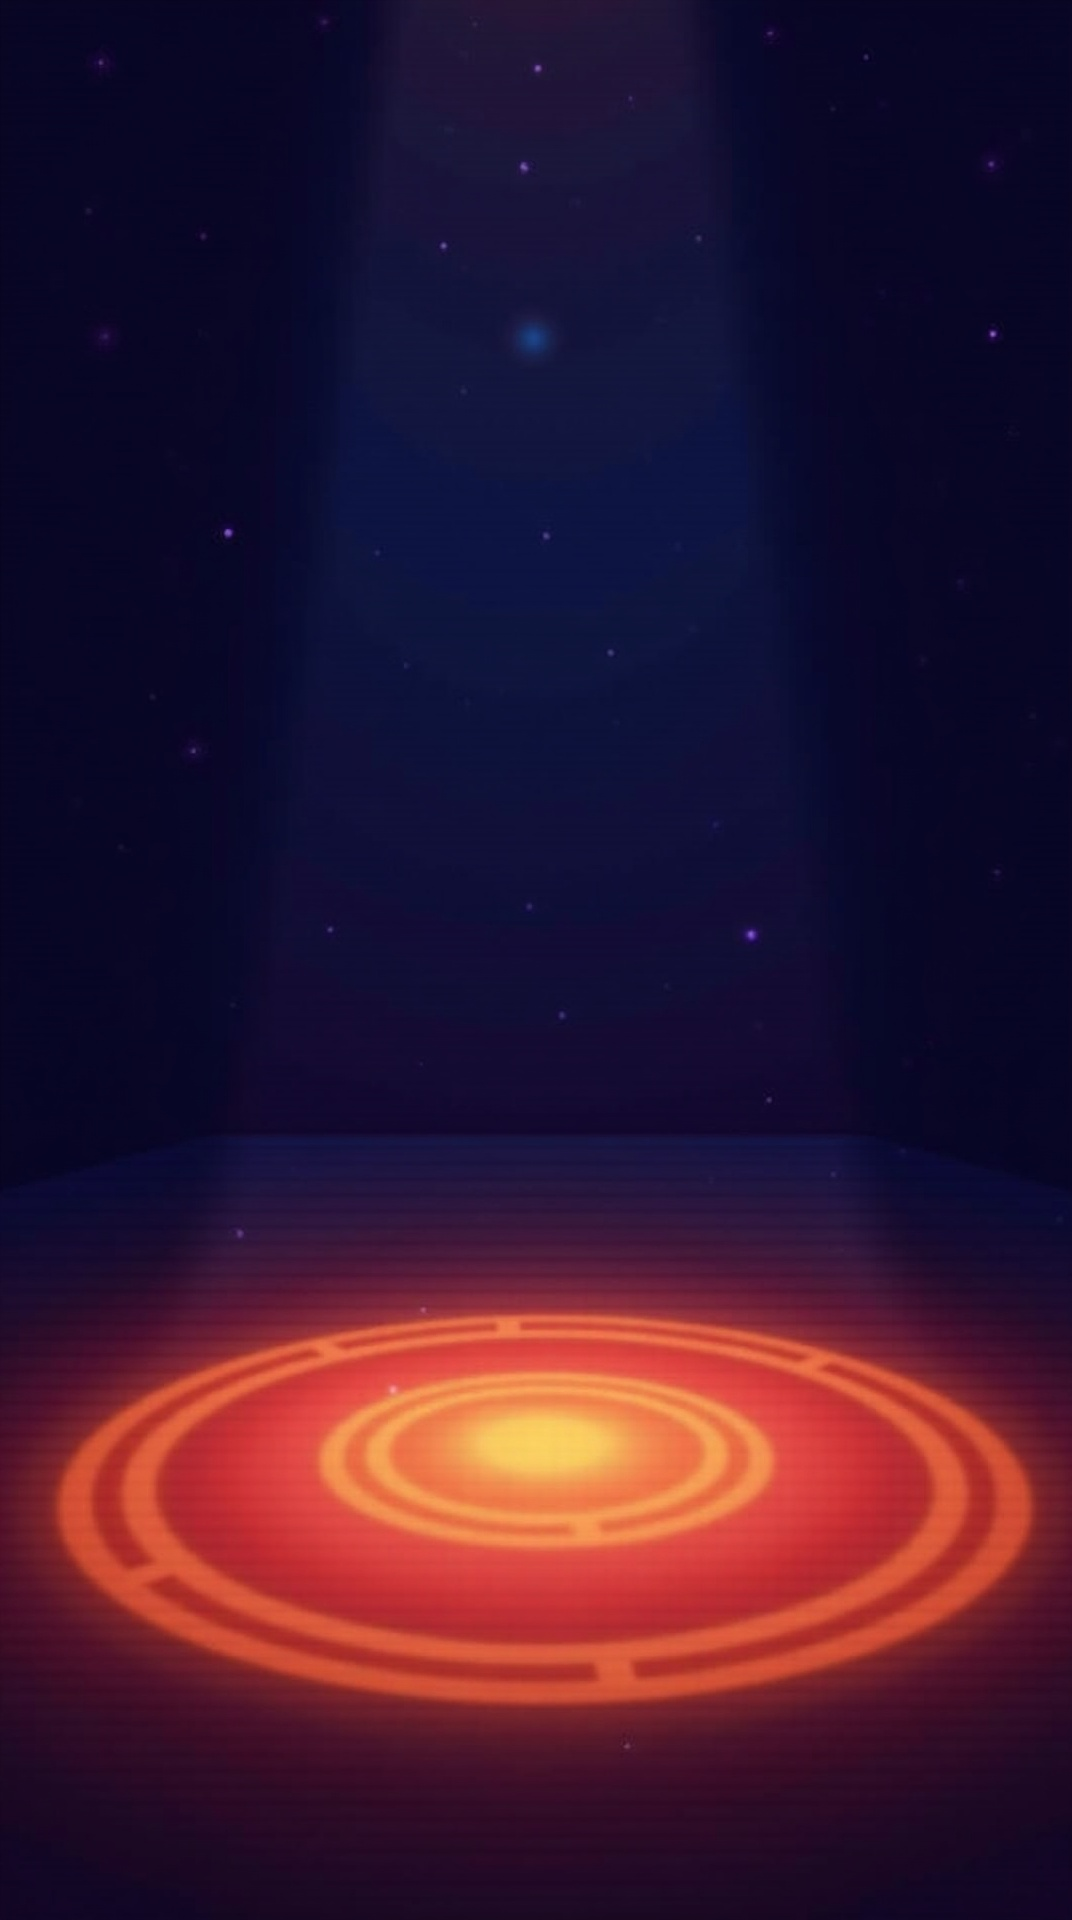
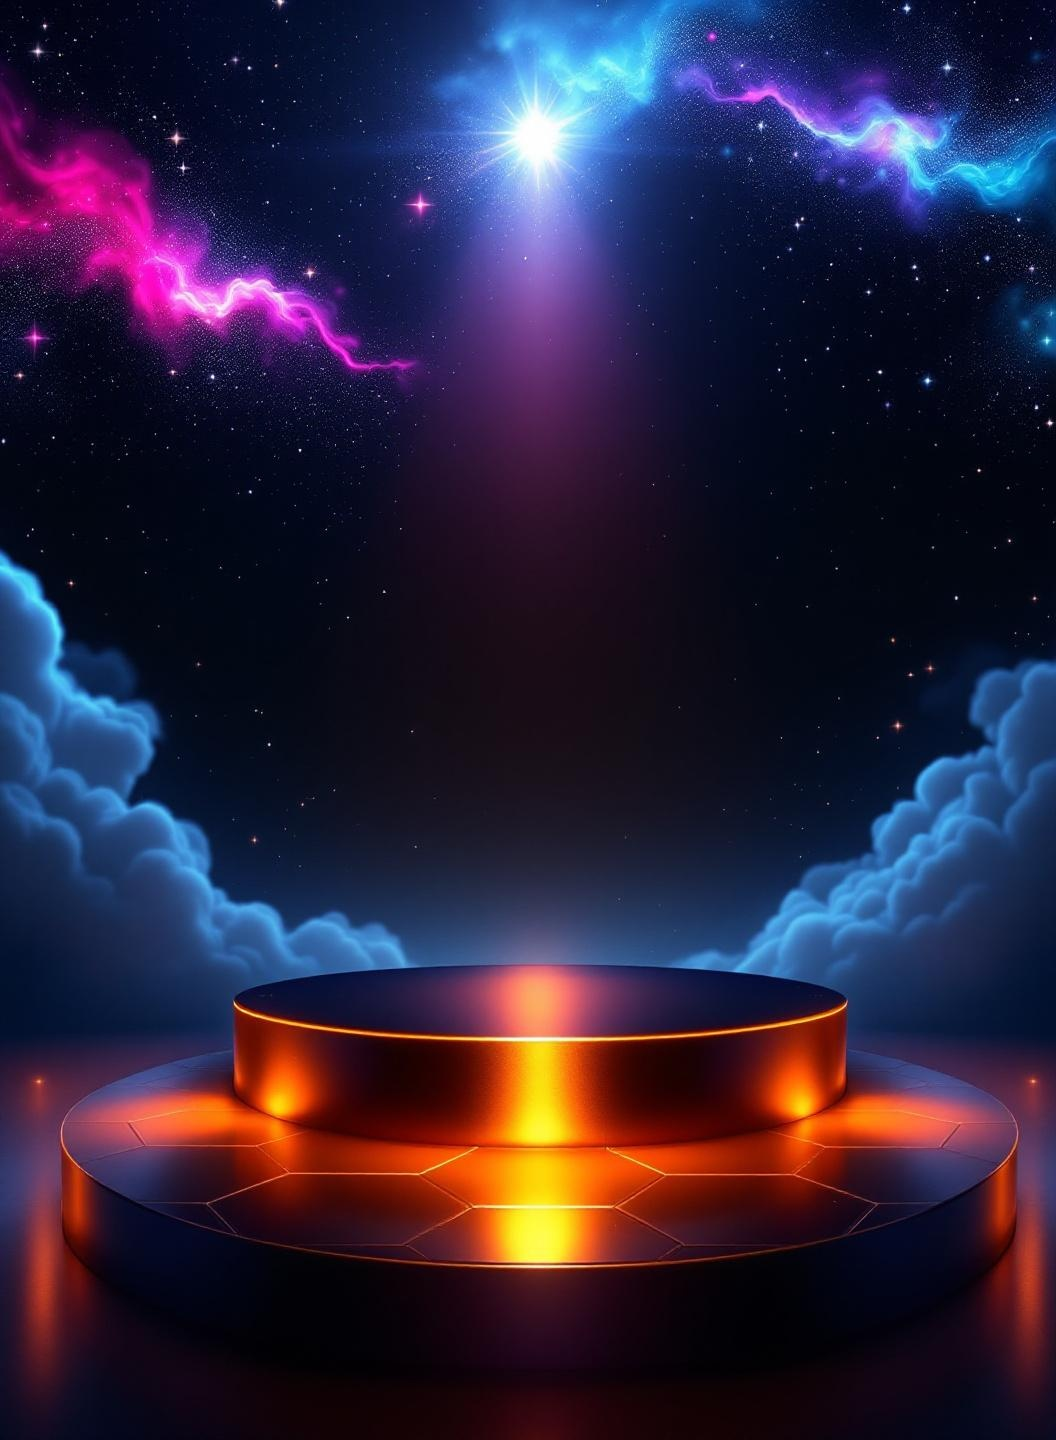
feat(home): Sims-tier lobby — new painted bg + rising embers + shimmer
Three upgrades that make the home screen the quality bar for the rest
of the UI:

1. Regenerated bg-home.png via fal.ai Flux Pro with a new prompt:
   cosmic magenta+cyan nebula sky over a glossy hexagonal stage with
   a central orange spotlight beam, clouds flanking the stage. Look
   is Apex Legends lobby crossed with The Sims 4 CAS crossed with
   Fortnite locker. Manifest prompt updated alongside.

2. New <StagePremiumFX> component behind the character:
   - 18 rising embers with randomized speed/size/color/sway, palette
     biased to warm orange/gold with magenta+cyan accent embers that
     match the painted nebula. Each ember loops a fade+rise+scale
     cycle on its own timeline so the field never visibly loops.
   - Slow 45s conic-gradient shimmer (web) / soft radial glow (native)
     reinforcing the painted spotlight with volumetric motion.
   Both animations run on the native driver / compositor — zero JS
   thread work per frame.

3. BreathingView wrapper on the logo at 1.5% intensity, 5s period.
   The lobby never feels static even when the player is idle.

tools/gen-bg-home.mjs — one-shot fal.ai regenerator for just the
home background, so we can iterate on the hero image without
touching the whole backgrounds group.

diff --git a/src/components/effects/StagePremiumFX.tsx b/src/components/effects/StagePremiumFX.tsx
@@ -1,0 +1,219 @@
+// ═══════════════════════════════════════════════════════════════════════
+// StagePremiumFX — home-stage "alive" layer
+//
+// Sims-meets-Fortnite lobby vibe: rising embers + a slow-rotating conic
+// light shimmer behind the character. Drops in behind <Character3D> and
+// handles its own animation loops so HomeScreen doesn't balloon.
+//
+// Designed to ride ON TOP of the new painted bg-home.png (cosmic sky +
+// hexagonal orange stage with a built-in spotlight beam). The embers
+// look like they're floating up from the stage; the shimmer reinforces
+// the painted spotlight with subtle motion.
+//
+// All animations run on the native driver. 18 embers total — dense
+// enough to read as alive, sparse enough that nothing stutters.
+// ═══════════════════════════════════════════════════════════════════════
+
+import React, { useEffect, useRef } from 'react';
+import { View, StyleSheet, Animated, Easing, Platform } from 'react-native';
+
+// ── Ember particle ────────────────────────────────────────────────────
+
+interface EmberConfig {
+  /** Horizontal position as 0..1 of the container width. */
+  left: number;
+  /** Starting y-offset from the bottom as 0..1. Usually small (0..0.2). */
+  startBottom: number;
+  /** Rise distance in px — how high the ember travels before recycling. */
+  rise: number;
+  /** Duration in ms for one rise cycle. Longer = slower, lazier ember. */
+  duration: number;
+  /** Delay before first start (ms) so embers don't all spawn together. */
+  delay: number;
+  /** Ember diameter in px. */
+  size: number;
+  /** Tailwind-ish color. Warm orange/gold for the stage fire feel. */
+  color: string;
+  /** Horizontal sway amplitude in px (0 = straight up). */
+  swayAmp: number;
+}
+
+function Ember({ config, containerWidth }: { config: EmberConfig; containerWidth: number }) {
+  const progress = useRef(new Animated.Value(0)).current;
+
+  useEffect(() => {
+    const loop = Animated.loop(
+      Animated.sequence([
+        Animated.delay(config.delay),
+        Animated.timing(progress, {
+          toValue: 1,
+          duration: config.duration,
+          easing: Easing.out(Easing.quad),
+          useNativeDriver: true,
+        }),
+      ]),
+    );
+    loop.start();
+    return () => loop.stop();
+  }, [config.delay, config.duration, progress]);
+
+  // Fade in for the first 15%, stay lit, fade out in the last 40%.
+  // Biased toward "visible most of the time" so the field reads dense.
+  const opacity = progress.interpolate({
+    inputRange: [0, 0.15, 0.6, 1],
+    outputRange: [0, 0.95, 0.85, 0],
+  });
+  const translateY = progress.interpolate({
+    inputRange: [0, 1],
+    outputRange: [0, -config.rise],
+  });
+  // Gentle sinusoidal sway. We fake sin() by chaining two cosine-ish
+  // easing curves so the motion is smooth on both ends of the path.
+  const translateX = progress.interpolate({
+    inputRange: [0, 0.25, 0.5, 0.75, 1],
+    outputRange: [0, config.swayAmp, 0, -config.swayAmp, 0],
+  });
+  // Subtle scale pulse — ember "glows" on its way up.
+  const scale = progress.interpolate({
+    inputRange: [0, 0.3, 1],
+    outputRange: [0.6, 1.1, 0.4],
+  });
+
+  return (
+    <Animated.View
+      pointerEvents="none"
+      style={{
+        position: 'absolute',
+        left: config.left * containerWidth - config.size / 2,
+        bottom: config.startBottom * 100,
+        width: config.size,
+        height: config.size,
+        borderRadius: config.size / 2,
+        backgroundColor: config.color,
+        opacity,
+        transform: [{ translateY }, { translateX }, { scale }],
+        // Soft glow on web. Native gets a subtle shadow to compensate.
+        ...(Platform.OS === 'web'
+          ? ({ filter: `blur(${config.size * 0.3}px)` } as any)
+          : { shadowColor: config.color, shadowOpacity: 0.8, shadowRadius: config.size * 0.6, shadowOffset: { width: 0, height: 0 } }),
+      }}
+    />
+  );
+}
+
+// Palette tuned to the painted bg-home: warm orange stage spotlight +
+// magenta + cyan nebula. Embers bias toward warm so they read as stage
+// fire rather than stars (stars are the painted + the ScreenBackground
+// layer's job).
+const EMBER_COLORS = [
+  '#ffb347', // warm orange
+  '#ffd18c', // peach
+  '#ffe4a3', // gold
+  '#ff8040', // deep orange
+  '#ffcf5a', // amber
+  '#ff6bb3', // magenta accent (matches sky nebula)
+  '#6bdcff', // cyan accent (matches sky nebula)
+];
+
+// 18 embers across a range of sizes/speeds. The random-ish distribution
+// here is actually deterministic so every mount produces the same
+// beautiful layout — no "the first render looks bad" issue.
+const EMBERS: EmberConfig[] = [
+  { left: 0.18, startBottom: 0.35, rise: 260, duration: 4800, delay: 0,    size: 5, color: EMBER_COLORS[0], swayAmp: 14 },
+  { left: 0.82, startBottom: 0.42, rise: 240, duration: 5200, delay: 400,  size: 4, color: EMBER_COLORS[1], swayAmp: 10 },
+  { left: 0.35, startBottom: 0.30, rise: 300, duration: 5600, delay: 800,  size: 6, color: EMBER_COLORS[2], swayAmp: 18 },
+  { left: 0.68, startBottom: 0.38, rise: 280, duration: 5000, delay: 1200, size: 5, color: EMBER_COLORS[0], swayAmp: 12 },
+  { left: 0.50, startBottom: 0.45, rise: 320, duration: 6000, delay: 1600, size: 7, color: EMBER_COLORS[3], swayAmp: 22 },
+  { left: 0.12, startBottom: 0.50, rise: 220, duration: 4400, delay: 2000, size: 3, color: EMBER_COLORS[4], swayAmp: 8  },
+  { left: 0.90, startBottom: 0.34, rise: 250, duration: 5400, delay: 2400, size: 4, color: EMBER_COLORS[1], swayAmp: 10 },
+  { left: 0.45, startBottom: 0.20, rise: 340, duration: 6400, delay: 2800, size: 6, color: EMBER_COLORS[5], swayAmp: 20 },
+  { left: 0.25, startBottom: 0.55, rise: 200, duration: 4200, delay: 3200, size: 3, color: EMBER_COLORS[2], swayAmp: 6  },
+  { left: 0.75, startBottom: 0.28, rise: 290, duration: 5800, delay: 3600, size: 5, color: EMBER_COLORS[0], swayAmp: 16 },
+  { left: 0.55, startBottom: 0.60, rise: 180, duration: 4000, delay: 4000, size: 3, color: EMBER_COLORS[4], swayAmp: 8  },
+  { left: 0.08, startBottom: 0.25, rise: 310, duration: 6200, delay: 4400, size: 5, color: EMBER_COLORS[6], swayAmp: 16 },
+  { left: 0.62, startBottom: 0.50, rise: 210, duration: 4600, delay: 4800, size: 4, color: EMBER_COLORS[1], swayAmp: 10 },
+  { left: 0.40, startBottom: 0.40, rise: 270, duration: 5200, delay: 5200, size: 5, color: EMBER_COLORS[3], swayAmp: 14 },
+  { left: 0.86, startBottom: 0.55, rise: 230, duration: 4800, delay: 5600, size: 4, color: EMBER_COLORS[0], swayAmp: 12 },
+  { left: 0.22, startBottom: 0.18, rise: 360, duration: 6600, delay: 6000, size: 6, color: EMBER_COLORS[5], swayAmp: 24 },
+  { left: 0.58, startBottom: 0.32, rise: 260, duration: 5000, delay: 6400, size: 4, color: EMBER_COLORS[4], swayAmp: 12 },
+  { left: 0.30, startBottom: 0.48, rise: 240, duration: 4800, delay: 6800, size: 5, color: EMBER_COLORS[6], swayAmp: 14 },
+];
+
+// ── Shimmer — slow-rotating conic gradient behind the spotlight ────────
+
+function Shimmer() {
+  const rotate = useRef(new Animated.Value(0)).current;
+  useEffect(() => {
+    const loop = Animated.loop(
+      Animated.timing(rotate, {
+        toValue: 1,
+        duration: 45_000, // a full slow 45s rotation
+        useNativeDriver: true,
+        easing: Easing.linear,
+      }),
+    );
+    loop.start();
+    return () => loop.stop();
+  }, [rotate]);
+
+  return (
+    <Animated.View
+      pointerEvents="none"
+      style={[
+        styles.shimmer,
+        {
+          transform: [
+            {
+              rotate: rotate.interpolate({
+                inputRange: [0, 1],
+                outputRange: ['0deg', '360deg'],
+              }),
+            },
+          ],
+        },
+      ]}
+    />
+  );
+}
+
+// ── Main component ────────────────────────────────────────────────────
+
+export function StagePremiumFX({ width }: { width: number }) {
+  return (
+    <View pointerEvents="none" style={StyleSheet.absoluteFill}>
+      <Shimmer />
+      {EMBERS.map((cfg, i) => (
+        <Ember key={i} config={cfg} containerWidth={width} />
+      ))}
+    </View>
+  );
+}
+
+const styles = StyleSheet.create({
+  shimmer: {
+    position: 'absolute',
+    top: '10%',
+    left: '10%',
+    width: '80%',
+    height: '80%',
+    borderRadius: 9999,
+    // Web-only conic gradient. On native we fall back to a soft radial
+    // glow via shadow (renders as a subtle bright center).
+    ...(Platform.OS === 'web'
+      ? ({
+          // A warm beam sweeping across the background. Low opacity
+          // stops keep it subtle; the animation makes it feel volumetric.
+          backgroundImage:
+            'conic-gradient(from 0deg, rgba(255,200,120,0) 0deg, rgba(255,200,120,0.18) 30deg, rgba(255,200,120,0) 80deg, rgba(255,140,80,0) 180deg, rgba(255,120,200,0.12) 220deg, rgba(255,120,200,0) 280deg, rgba(255,200,120,0) 360deg)',
+          filter: 'blur(30px)',
+          mixBlendMode: 'screen',
+        } as any)
+      : {
+          backgroundColor: 'rgba(255,200,120,0.12)',
+          shadowColor: '#ffb347',
+          shadowOpacity: 0.4,
+          shadowRadius: 40,
+          shadowOffset: { width: 0, height: 0 },
+        }),
+  },
+});

diff --git a/src/screens/HomeScreen.tsx b/src/screens/HomeScreen.tsx
@@ -26,6 +26,7 @@ import { getTipById } from '../data/tutorials';
 import { haptics } from '../services/haptics';
 import { ALL_CAREER_LEVELS } from '../data/careerLevels';
 import { BreathingView, SlideReveal, StaggeredEntry } from '../components/animations';
+import { StagePremiumFX } from '../components/effects/StagePremiumFX';
 import { colors } from '../theme/colors';
 import { fonts, weight } from '../theme/typography';
 
@@ -375,15 +376,19 @@ export function HomeScreen() {
           )}
         </View>
 
-        {/* ═══ DROP4 LOGO ═══ */}
+        {/* ═══ DROP4 LOGO ═══ Breathing scale so the header feels
+            alive on idle. ~3% scale range on a 5s cycle — subtle
+            enough to read as premium polish, not jumpy. */}
         <StaggeredEntry index={0}>
-        <View style={styles.logoArea}>
-          <Image
-            source={require('../assets/images/ui/home-logo.png')}
-            style={styles.logoImage}
-            resizeMode="contain"
-          />
-        </View>
+        <BreathingView intensity={0.015} speed={5000}>
+          <View style={styles.logoArea}>
+            <Image
+              source={require('../assets/images/ui/home-logo.png')}
+              style={styles.logoImage}
+              resizeMode="contain"
+            />
+          </View>
+        </BreathingView>
         </StaggeredEntry>
 
         {/* ═══ CHARACTER LOBBY ═══ */}
@@ -423,6 +428,10 @@ export function HomeScreen() {
                 atmosphere. The existing stageGlowOuter/Inner rings already
                 handle the theatrical lighting cue. */}
             <StageSparkles />
+            {/* Premium home-only FX: rising embers + slow conic shimmer
+                reinforcing the painted stage spotlight. Sized to the
+                character stage so the embers rise ALONG the character. */}
+            <StagePremiumFX width={320} />
 
             <BreathingView intensity={0.015} speed={4000}>
             <Pressable
